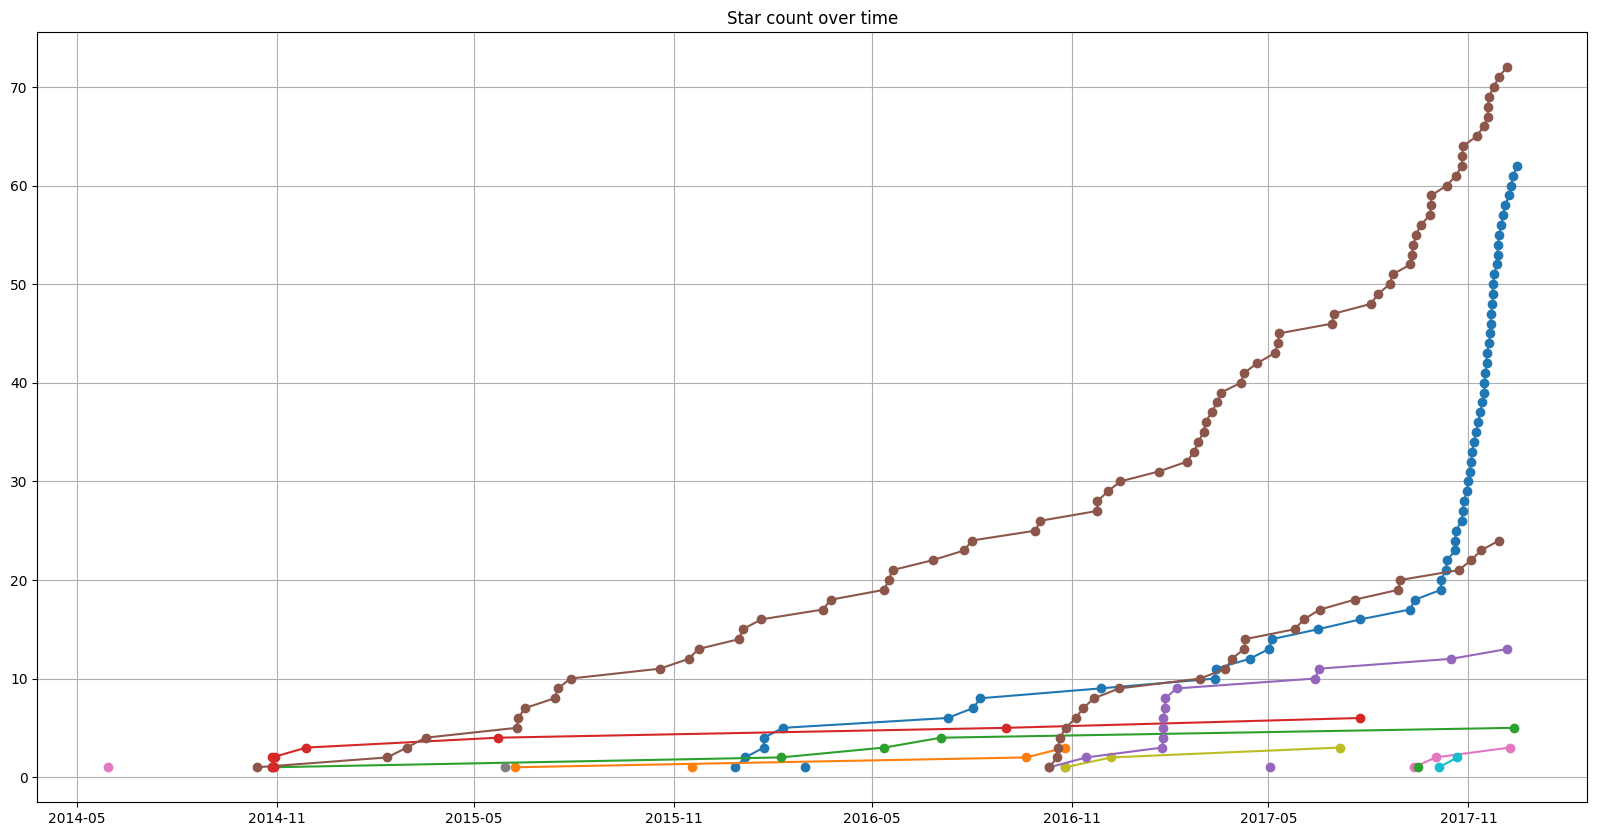
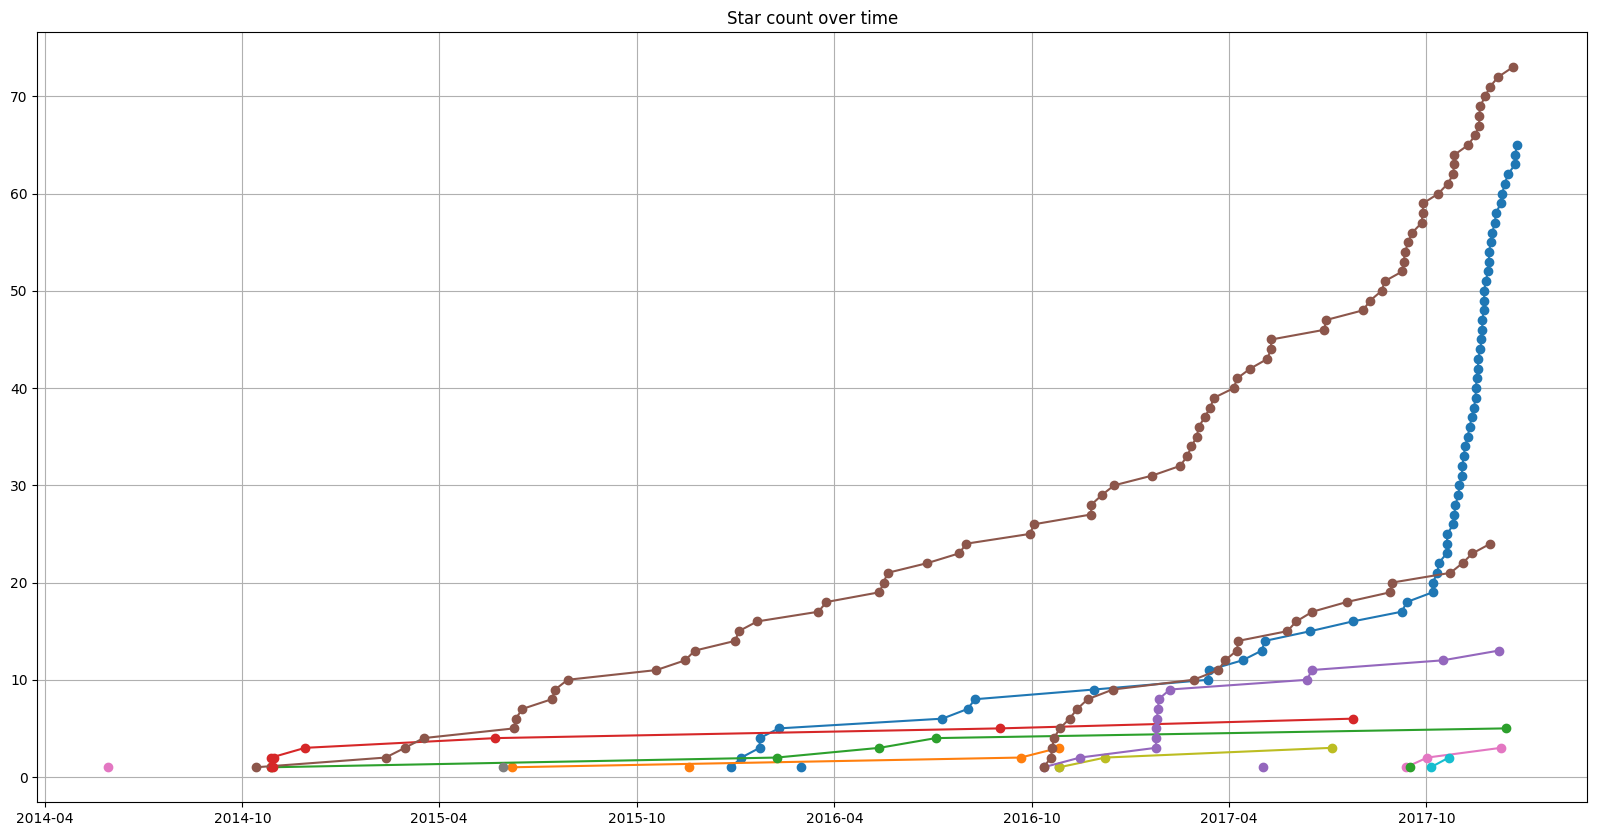
update

diff --git a/README.md b/README.md
@@ -37,11 +37,11 @@
 
 ## Python Tools for Developers
 
-* [CodeReview](https://github.com/FabriceSalvaire/CodeReview) 62 :star:</br>
+* [CodeReview](https://github.com/FabriceSalvaire/CodeReview) 65 :star:</br>
 
    CodeReview is a Git GUI tool to perform code review (Diff Viewer) written in Python3 and Qt5.
 
-   Updated on 2017-12-15
+   Updated on 2017-12-23
 
 * [github-map](https://github.com/FabriceSalvaire/github-map)
 
@@ -167,11 +167,11 @@
 
 ## Python for Electronic
 
-* [PySpice](https://github.com/FabriceSalvaire/PySpice) 72 :star:</br>
+* [PySpice](https://github.com/FabriceSalvaire/PySpice) 73 :star:</br>
 
    Simulate electronic circuit using Python and the Ngspice / Xyce simulators
 
-   Updated on 2017-12-06
+   Updated on 2017-12-19
 
 * [PyResistorColorCode](https://github.com/FabriceSalvaire/PyResistorColorCode) 1 :star:</br>
 
